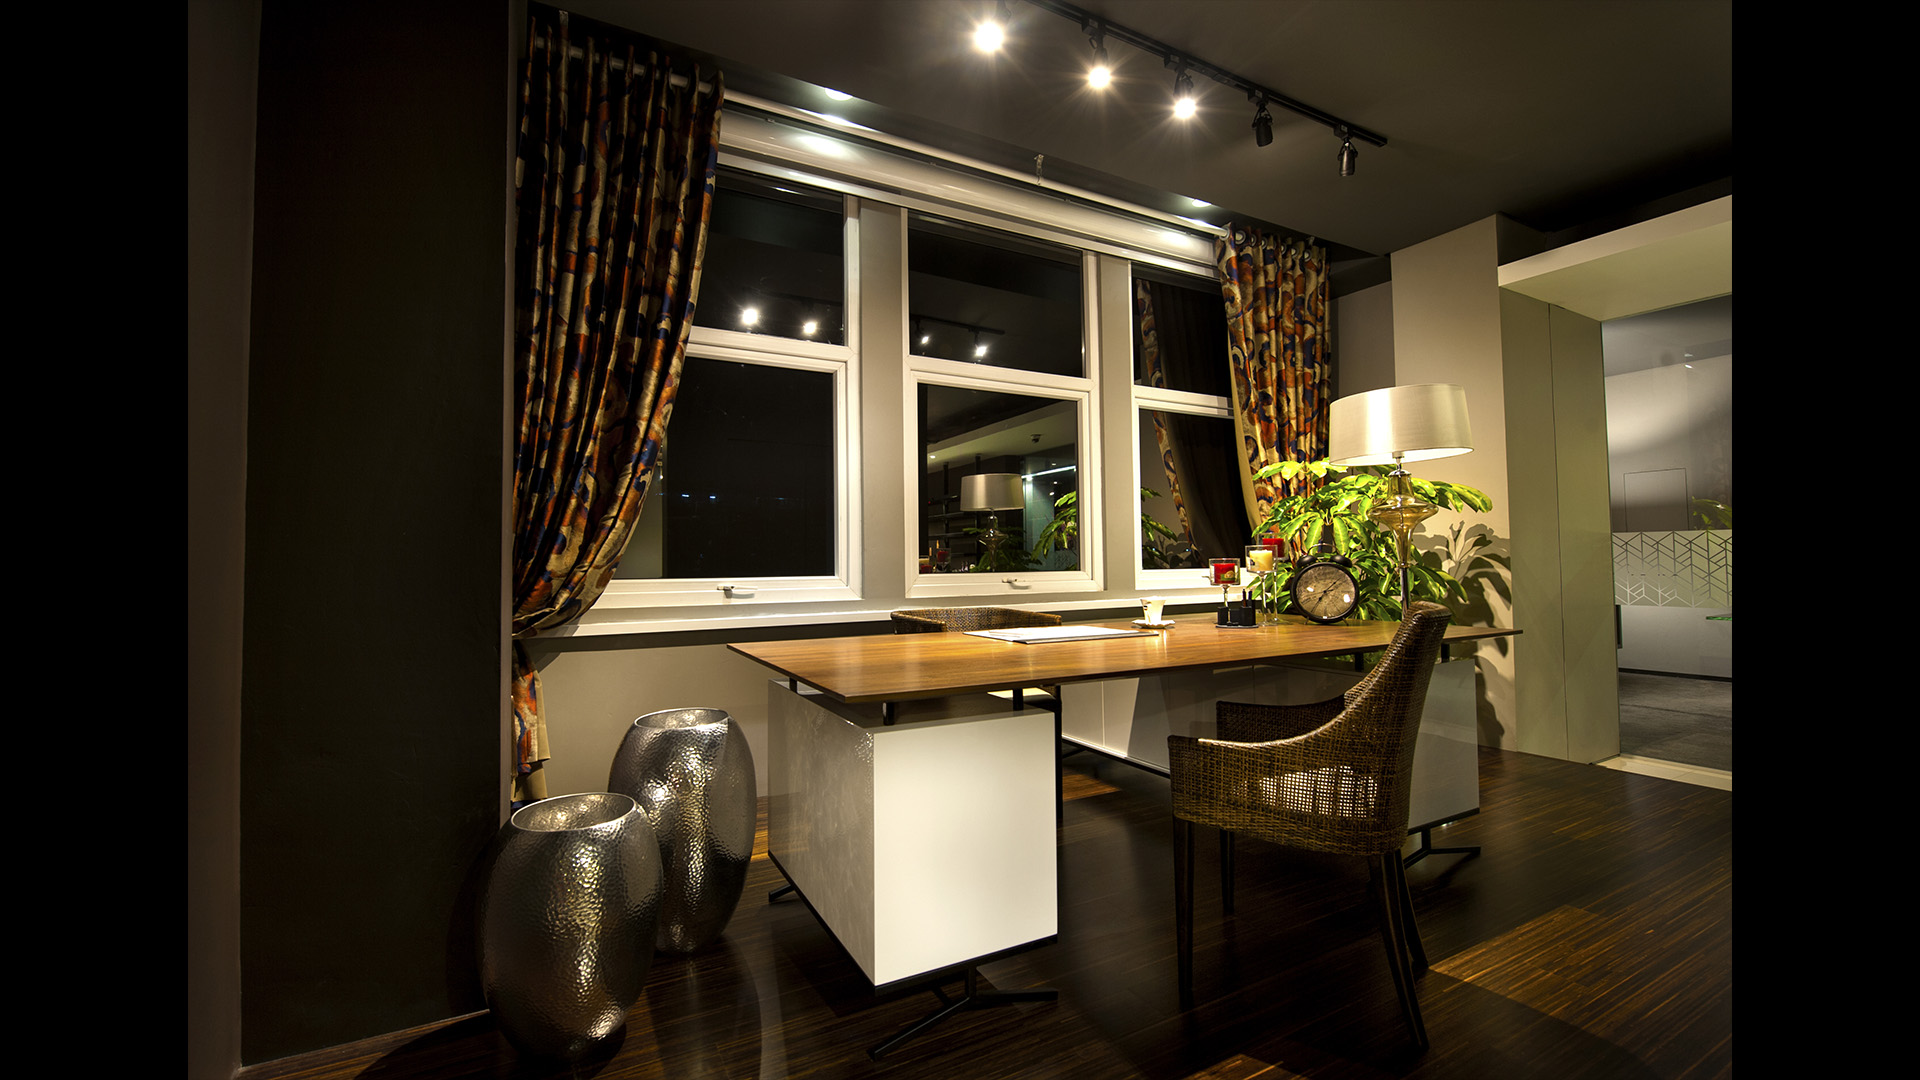
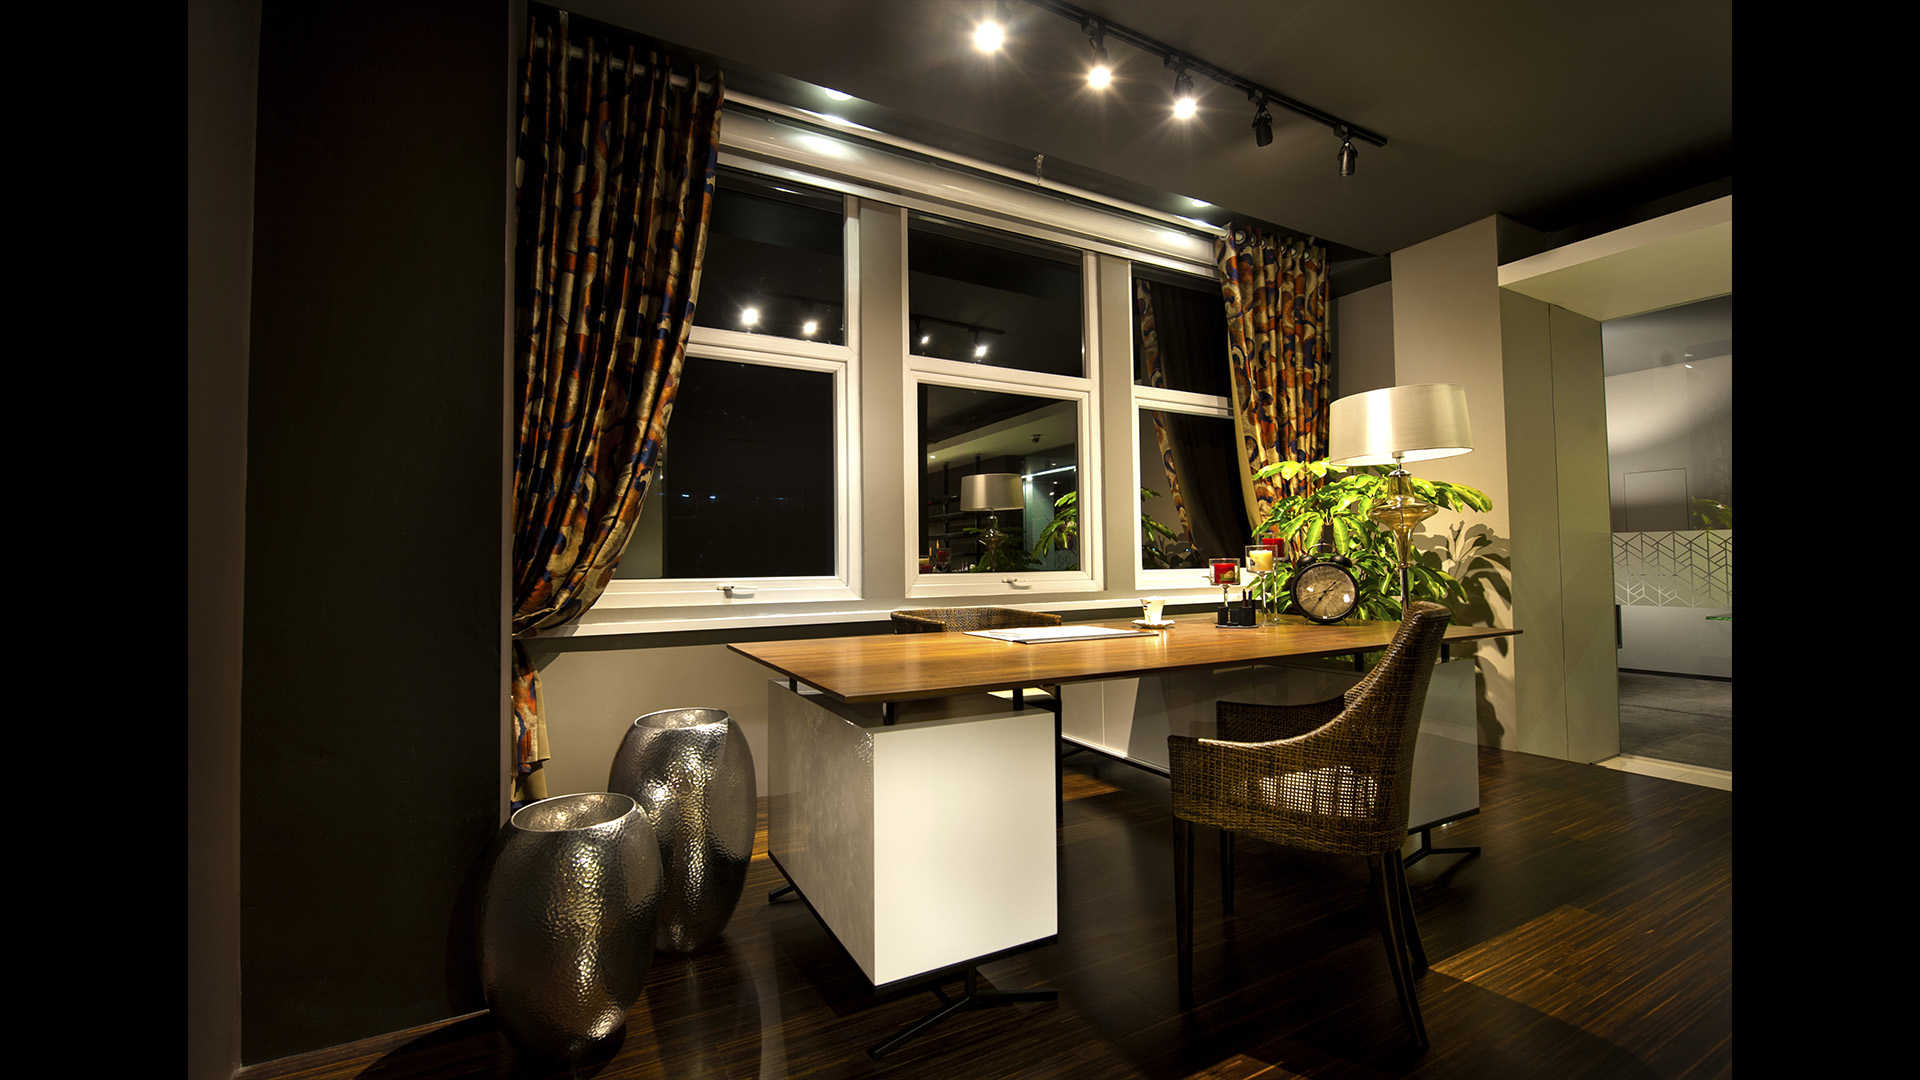
update home page, update about subheader image

diff --git a/assets/css/style.css b/assets/css/style.css
@@ -1417,14 +1417,15 @@ a.logo:hover{
 	position: relative;
 }
 .inner-nav ul li a{
-	color: #777;
+	color: #fff;
+  /* color:#c87f28; */
     letter-spacing: 2px;
 	display: inline-block;
 	-moz-box-sizing: border-box;
     -webkit-box-sizing: border-box;
 	box-sizing: border-box;
 	text-decoration: none;
-	
+	/* font-weight: bold; */
 	-webkit-transition: all 0.27s cubic-bezier(0.000, 0.000, 0.580, 1.000);  
     -moz-transition: all 0.27s cubic-bezier(0.000, 0.000, 0.580, 1.000); 
     -o-transition: all 0.27s cubic-bezier(0.000, 0.000, 0.580, 1.000);
@@ -1436,7 +1437,8 @@ a.logo:hover{
 }  
 .inner-nav ul li a:hover,
 .inner-nav ul li a.active{
-	color: #000;
+	color: #fff;
+  font-weight: bold;
 	text-decoration: none;
 }
 
@@ -2450,7 +2452,13 @@ a.logo:hover{
 	
 }
 .team-item-member{
-  background: rgba(255,255,255, .0);
+    filter: grayscale(50%);
+    -webkit-filter: grayscale(50%);
+    filter: gray;
+    -moz-transition: all 0.2s ease-in;
+    -o-transition: all 0.2s ease-in;
+    -webkit-transition: all 0.2s ease-in;
+    transition:all 0.2s ease-in;
 }
 .team-item-image{
 	position: relative;
@@ -2569,7 +2577,6 @@ a.logo:hover{
 }
 .team-link{
   text-decoration: none;
-
 }
 .team-link:hover{
   text-decoration: none;
@@ -2591,17 +2598,20 @@ a.logo:hover{
   color: #111;
 }
 .no-mobile .team-item-member .team-item-image:after{
-  background: rgba(255,255,255, .20);
+  background: rgba(255,255,255, .10);
 }
 /*hover state class .team-item-member */
 .no-mobile .team-item-member:hover .team-item-image:after{
+  background: rgba(255,255,255, .0);
+}
+.team-item-member.js-active .team-item-image:after{
   background: rgba(255,255,255, .0);
 }
 
 
 /* Hover state */
 .no-mobile .team-item:hover .team-item-image:after{
-	background: rgba(255,255,255, .0);
+	background: rgba(255,255,255, .93);
 }
 .no-mobile .team-item:hover .team-item-detail{
 	opacity: 1;
@@ -3029,7 +3039,7 @@ a.logo:hover{
 	position: absolute;
 	top: 0;
 	left: 0;
-	background: rgba(250,250,250, 0);
+	background: rgba(0,0,0, .10);
 	
 	-webkit-transition: all 0.27s cubic-bezier(0.300, 0.100, 0.580, 1.000);  
     -moz-transition: all 0.27s cubic-bezier(0.300, 0.100, 0.580, 1.000); 
@@ -3039,7 +3049,7 @@ a.logo:hover{
 	
 }
 .work-item:hover .work-img:after{	
-	background: rgba(20,20,20, .85);
+	/* background: rgba(20,20,20, .85); */
 }
 
 .works-grid.hover-color .work-item:hover .work-intro,
@@ -3057,23 +3067,23 @@ a.logo:hover{
 	color: #000;
 }
 .works-grid.hover-white .work-item:hover .work-img:after{	
-	background: rgba(250,250,250, .9);
+	/* background: rgba(250,250,250, .9) */;
 }
 
 .work-item .work-img > img{
-	-webkit-transition: all 0.3s cubic-bezier(0.300, 0.100, 0.580, 1.000);  
-    -moz-transition: all 0.3s cubic-bezier(0.300, 0.100, 0.580, 1.000); 
-    -o-transition: all 0.3s cubic-bezier(0.300, 0.100, 0.580, 1.000);
-    -ms-transition: all 0.3s cubic-bezier(0.300, 0.100, 0.580, 1.000); 
-    transition: all 0.3s cubic-bezier(0.300, 0.100, 0.580, 1.000);
+	 /* -webkit-transition: all 0.3s cubic-bezier(0.300, 0.100, 0.580, 1.000);  
+       -moz-transition: all 0.3s cubic-bezier(0.300, 0.100, 0.580, 1.000); 
+       -o-transition: all 0.3s cubic-bezier(0.300, 0.100, 0.580, 1.000);
+       -ms-transition: all 0.3s cubic-bezier(0.300, 0.100, 0.580, 1.000); 
+       transition: all 0.3s cubic-bezier(0.300, 0.100, 0.580, 1.000); */
 }
 
 .work-item:hover .work-img > img{
-	-webkit-transform: scale(1.05);
-	-moz-transform: scale(1.05);
-	-o-transform: scale(1.05);
-	-ms-transform: scale(1.05);
-	transform: scale(1.05);
+	/* -webkit-transform: scale(1.05);
+  -moz-transform: scale(1.05);
+  -o-transform: scale(1.05);
+  -ms-transform: scale(1.05);
+  transform: scale(1.05); */
 }
 
 /*

diff --git a/assets/js/all.js b/assets/js/all.js
@@ -183,10 +183,12 @@
                 if ($(window).scrollTop() > 10) {
                     $(".js-transparent").removeClass("transparent");
                     $(".main-nav, .nav-logo-wrap .logo, .mobile-nav").addClass("small-height");
+                    $(".inner-nav ul li a,.inner-nav ul li a.active").css('color', '#777');
                 }
                 else {
                     $(".js-transparent").addClass("transparent");
                     $(".main-nav, .nav-logo-wrap .logo, .mobile-nav").removeClass("small-height");
+                    $(".inner-nav ul li a, .inner-nav ul li a.active, .inner-nav ul li a:hover").css('color', '#fff');
                 }
             
             

diff --git a/application/views/public/home.php b/application/views/public/home.php
@@ -3,7 +3,7 @@
     $this->load->view('public/public_template/header');
 ?>
             <!-- Home Section -->
-            <section class="home-section bg-color-lighter parallax-2" data-background="/assets/images/showroom-inerre/pantry_1.jpg" id="home">
+            <section class="home-section bg-color-lighter parallax-2" data-background="/assets/images/showroom-inerre/main_page_3.jpg" id="home">
                 <div class="js-height-full">
                     
                     <!-- Hero Content -->
@@ -13,11 +13,11 @@
                             <!-- <h1 class=" textshadowblack hs-line-1 font-alt mb-50 mb-xs-50 mt-50 mb-xs-0 inerre-brown">
                                 INERRE
                             </h1> -->
-                            <div class="hidden-xs mb-10 mb-xs-50 mt-50 mb-xs-0 ">
+                            <div class="hidden-xs mb-10 mb-xs-50 mt-50 mb-xs-0">
                                 <img src="/assets/images/inerrelogo.png" class="center-block img-responsive" alt="">
                             </div>
                             <div class="hidden-sm hidden-md hidden-lg mb-50 mb-xs-50 mt-50 mb-xs-0 ">
-                                <img src="/assets/images/inerrelogo.png" width="220px" class="center-block" alt="">
+                                <img src="/assets/images/inerrelogo.png" width="220px" class="center-block" style="background:rgba(0,0,0, .70);" alt="">
                             </div>    
                             <div class="textshadowblack hs-line-6 mb-120 mb-xs-80 col-xs-12">
                                 I&nbsp;&nbsp;&nbsp;N&nbsp;&nbsp;&nbsp;T&nbsp;&nbsp;&nbsp;E&nbsp;&nbsp;&nbsp;R&nbsp;&nbsp;&nbsp;I&nbsp;&nbsp;&nbsp;O&nbsp;&nbsp;&nbsp;R
@@ -251,49 +251,49 @@
                         
                         <!-- Work Item (External Page) -->
                         <li class="work-item">
-                            <a href="portfolio-single-1.html" class="work-ext-link">
+                            <!-- <a href="portfolio-single-1.html" class="work-ext-link"> -->
                                 <div class="work-img">
                                     <img class="work-img" src="/assets/images/portfolio-inerre/015532-650.jpg" alt="Work" />
                                 </div>
-                                <div class="work-intro">
+                                <!-- <div class="work-intro">
                                     <h3 class="work-title">Portfolio #10</h3>
                                     <div class="work-descr">
                                         External Page
                                     </div>
-                                </div>
-                            </a>
+                                </div> -->
+                            <!-- </a> -->
                         </li>
                         <!-- End Work Item -->
                         
                         <!-- Work Item (External Page) -->
                         <li class="work-item">
-                            <a href="portfolio-single-1.html" class="work-ext-link">
+                            <!-- <a href="portfolio-single-1.html" class="work-ext-link"> -->
                                 <div class="work-img">
                                     <img class="work-img" src="/assets/images/portfolio-inerre/025053-650.jpg" alt="Work" />
                                 </div>
-                                <div class="work-intro">
+                                <!-- <div class="work-intro">
                                     <h3 class="work-title">Portfolio #9</h3>
                                     <div class="work-descr">
                                         External Page
                                     </div>
-                                </div>
-                            </a>
+                                </div> -->
+                            <!-- </a> -->
                         </li>
                         <!-- End Work Item -->
                         
                         <!-- Work Item (External Page) -->
                         <li class="work-item">
-                            <a href="portfolio-single-1.html" class="work-ext-link">
+                            <!-- <a href="portfolio-single-1.html" class="work-ext-link"> -->
                                 <div class="work-img">
                                     <img class="work-img" src="/assets/images/portfolio-inerre/034836-650.jpg" alt="Work" />
                                 </div>
-                                <div class="work-intro">
+                                <!-- <div class="work-intro">
                                     <h3 class="work-title">Portfolio #8</h3>
                                     <div class="work-descr">
                                         External Page
                                     </div>
-                                </div>
-                            </a>
+                                </div> -->
+                            <!-- </a> -->
                         </li>
                         <!-- End Work Item -->
                         

diff --git a/application/views/public/contact.php b/application/views/public/contact.php
@@ -4,7 +4,7 @@
 ?>          
             <!-- Head Section -->
             <!-- <section class="page-section bg-dark-lighter parallax-3" data-background="/assets/images/full-width-images/new-crop-flip.jpg"> -->
-            <section class="page-section bg-dark-lighter parallax-3" data-background="/assets/images/subheader/6E9C2059_19201080.jpg" style="">
+            <section class="page-section bg-dark-lighter parallax-3" data-background="/assets/images/subheader/subheader_contact_2.jpg" style="">
                 <div class="relative container align-left">
                     
                     <div class="row">

diff --git a/application/views/public/portfolio.php b/application/views/public/portfolio.php
@@ -3,7 +3,7 @@
     $this->load->view('public/public_template/header');
 ?>          
             <!-- Head Section -->
-            <section class="page-section bg-dark-lighter parallax-3" data-background="/assets/images/subheader/6E9C2055_19201080.jpg">
+            <section class="page-section bg-dark-lighter parallax-3" data-background="/assets/images/subheader/subheader_portfolio.jpg">
                 <div class="relative container align-left">
                     <div class="row">
                         <div class="col-md-12">

diff --git a/application/views/public/about.php b/application/views/public/about.php
@@ -3,7 +3,7 @@
     $this->load->view('public/public_template/header');
 ?>   
             <!-- Head Section -->
-            <section class=" page-section bg-dark-lighter parallax-3" data-background="/assets/images/subheader/6E9C1997_19201080.jpg">
+            <section class=" page-section bg-dark-lighter parallax-3" data-background="/assets/images/subheader/subheader_about_2.jpg">
                 <div class="relative container align-left">
                     <div class="row">
                         <div class="col-md-12">
